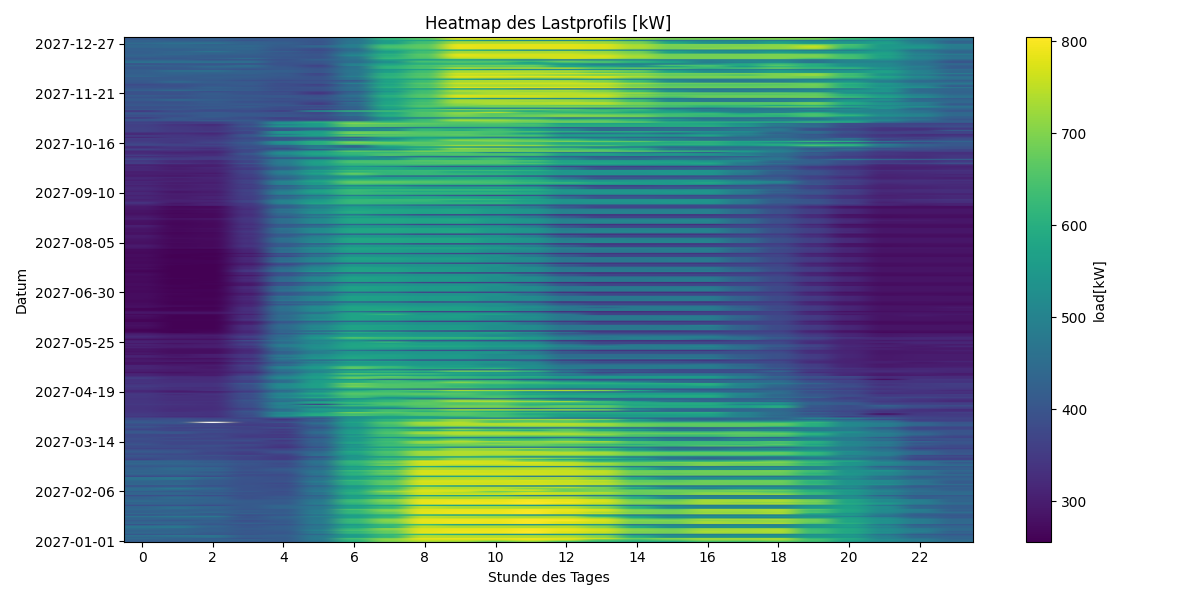
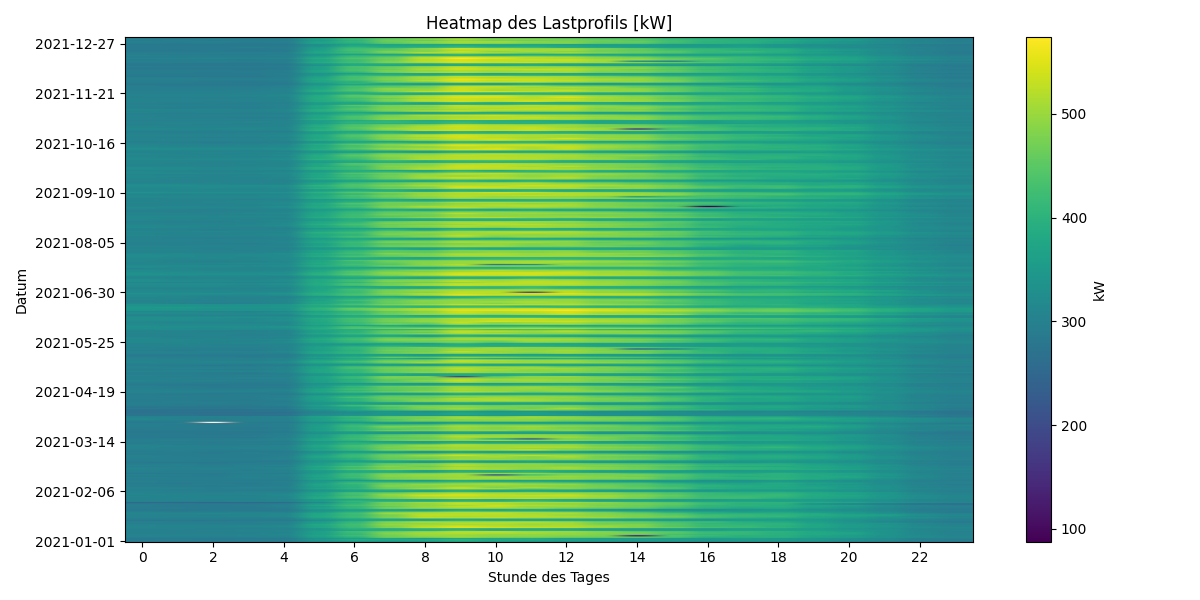
Analyse Lastprofil hinzugefügt

diff --git a/Dateien/Loadprofile_read_V3.py b/Dateien/Loadprofile_read_V3.py
@@ -1,0 +1,153 @@
+import pandas as pd
+import matplotlib.pyplot as plt
+
+
+def read_load_profile(path):
+    lp = pd.read_csv(path, sep=';', decimal=',')
+
+    # Leere Spalten entfernen wegen ;;;;;;;
+    lp = lp.dropna(axis=1, how='all')
+
+    lp['timestamp_UTC'] = pd.to_datetime(
+        lp['Ab-Datum'].astype(str) + ' ' + lp['Ab-Zeit'].astype(str),
+        format='%d.%m.%Y %H:%M:%S',
+        errors='coerce'
+    )
+
+    lp['kW'] = pd.to_numeric(lp['kW'], errors='coerce')
+    lp['kW'] = pd.to_numeric(lp['kW'], errors='coerce')
+
+    lp = lp.dropna(subset=['timestamp_UTC', 'kW'])
+
+    return lp
+
+
+def print_statistics(lp):
+    load = lp['kW']
+
+    lp_max = load.max()
+    lp_min = load.min()
+    lp_mean = load.mean()
+
+    print(
+        'Maximal:', lp_max, '\n'
+        'Minimal:', lp_min, '\n'
+        'Durchschnitt:', lp_mean
+    )
+
+    return lp_max, lp_min, lp_mean
+
+
+def plot_load_profile(lp):
+    fig, ax = plt.subplots(figsize=(12, 6))
+
+    load = lp['kW']
+
+    lp_max = load.max()
+    lp_min = load.min()
+    lp_mean = load.mean()
+
+    ax.plot(
+        lp['timestamp_UTC'],
+        load,
+        color='tab:red',
+        linewidth=0.8,
+    )
+
+    ax.axhline(
+        lp_max,
+        color='black',
+        linestyle='--',
+        linewidth=1.2,
+        label=f'Maximum: {lp_max:.2f} kW'
+    )
+
+    ax.axhline(
+        lp_mean,
+        color='green',
+        linestyle='--',
+        linewidth=1.2,
+        label=f'Durchschnitt: {lp_mean:.2f} kW'
+    )
+
+    ax.axhline(
+        lp_min,
+        color='blue',
+        linestyle='--',
+        linewidth=1.2,
+        label=f'Minimum: {lp_min:.2f} kW'
+    )
+
+    ax.set_title('Lastgang eines Krankenhauses')
+    ax.set_xlabel('Zeit')
+    ax.set_ylabel('Last [kW]')
+    ax.grid(True)
+    ax.legend(loc='upper right')
+
+    fig.autofmt_xdate()
+    plt.tight_layout()
+    plt.show()
+
+
+def plot_heatmap(ax, df, value_col, title, cmap='viridis'):
+    heatmap_data = df.copy()
+
+    heatmap_data['date'] = heatmap_data['timestamp_UTC'].dt.date
+    heatmap_data['hour'] = heatmap_data['timestamp_UTC'].dt.hour
+
+    heatmap_table = heatmap_data.pivot_table(
+        index='date',
+        columns='hour',
+        values=value_col,
+        aggfunc='mean'
+    )
+
+    im = ax.imshow(
+        heatmap_table,
+        aspect='auto',
+        cmap=cmap,
+        origin='lower'
+    )
+
+    ax.set_title(title)
+    ax.set_xlabel('Stunde des Tages')
+    ax.set_ylabel('Datum')
+
+    ax.set_xticks(range(0, 24, 2))
+    ax.set_xticklabels(range(0, 24, 2))
+
+    step = max(1, len(heatmap_table.index) // 10)
+    ax.set_yticks(range(0, len(heatmap_table.index), step))
+    ax.set_yticklabels(heatmap_table.index[::step])
+
+    plt.colorbar(im, ax=ax, label=value_col)
+
+
+def plot_load_heatmap(lp):
+    fig, ax = plt.subplots(figsize=(12, 6))
+
+    plot_heatmap(
+        ax=ax,
+        df=lp,
+        value_col='kW',
+        title='Heatmap des Lastprofils [kW]',
+        cmap='viridis'
+    )
+
+    plt.tight_layout()
+    plt.show()
+
+
+def main():
+    path = r'Stromlastgang_Krankenhaus.csv'
+
+    lp = read_load_profile(path)
+
+    print_statistics(lp)
+
+    plot_load_profile(lp)
+    plot_load_heatmap(lp)
+
+
+if __name__ == '__main__':
+    main()